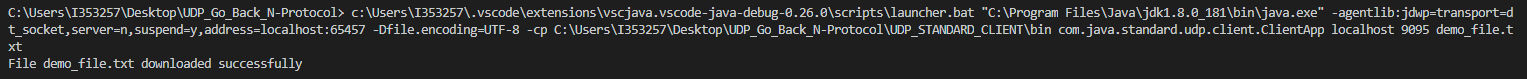
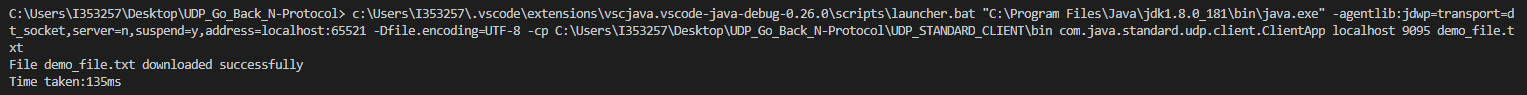
Added Timer

Changed region(s): [[0.0, 0.0759, 1.0, 0.4557], [0.0, 0.4557, 0.2155, 0.9114], [0.4925, 0.4557, 0.5232, 0.481]]

diff --git a/UDP_STANDARD_CLIENT/src/com/java/standard/udp/client/service/FileClient.java b/UDP_STANDARD_CLIENT/src/com/java/standard/udp/client/service/FileClient.java
@@ -25,6 +25,7 @@ public class FileClient {
         try {
             byte[] buffer = fileName.getBytes();
             DatagramPacket request = new DatagramPacket(buffer, buffer.length, InetAddress.getByName(IPAddress), Port);
+            long startTime = System.currentTimeMillis();
             socket.send(request);
             byte[] responseBuffer = new byte[123456789];
             DatagramPacket response = new DatagramPacket(responseBuffer, responseBuffer.length);
@@ -42,6 +43,8 @@ public class FileClient {
                 f.write(responseBuffer, 0, response.getLength());
                 f.close();
                 System.out.println("File " + fileName + " downloaded successfully");
+                long elapsedTime = System.currentTimeMillis() - startTime;
+                System.out.println("Time taken:" + elapsedTime + "ms");
             } else {
                 throw new ArrayIndexOutOfBoundsException("Invalid File or File not found!");
             }

diff --git a/TCP_STANDARD_CLIENT/src/com/java/standard/tcp/client/server/FileClient.java b/TCP_STANDARD_CLIENT/src/com/java/standard/tcp/client/server/FileClient.java
@@ -20,6 +20,7 @@ public class FileClient {
 
         ostream = socket.getOutputStream();
         try {
+            long startTime = System.currentTimeMillis();
             PrintWriter pwrite = new PrintWriter(ostream, true);
             pwrite.println(fileName);
 
@@ -47,6 +48,8 @@ public class FileClient {
                 bos.write(mybytearray, 0, current);
                 bos.flush();
                 System.out.println("File " + fileName + " downloaded successfully");
+                long elapsedTime = System.currentTimeMillis() - startTime;
+                System.out.println("Time taken:" + elapsedTime + "ms");
             } else
                 throw new ArrayIndexOutOfBoundsException("File Not Found!");
         } catch (ArrayIndexOutOfBoundsException e) {
